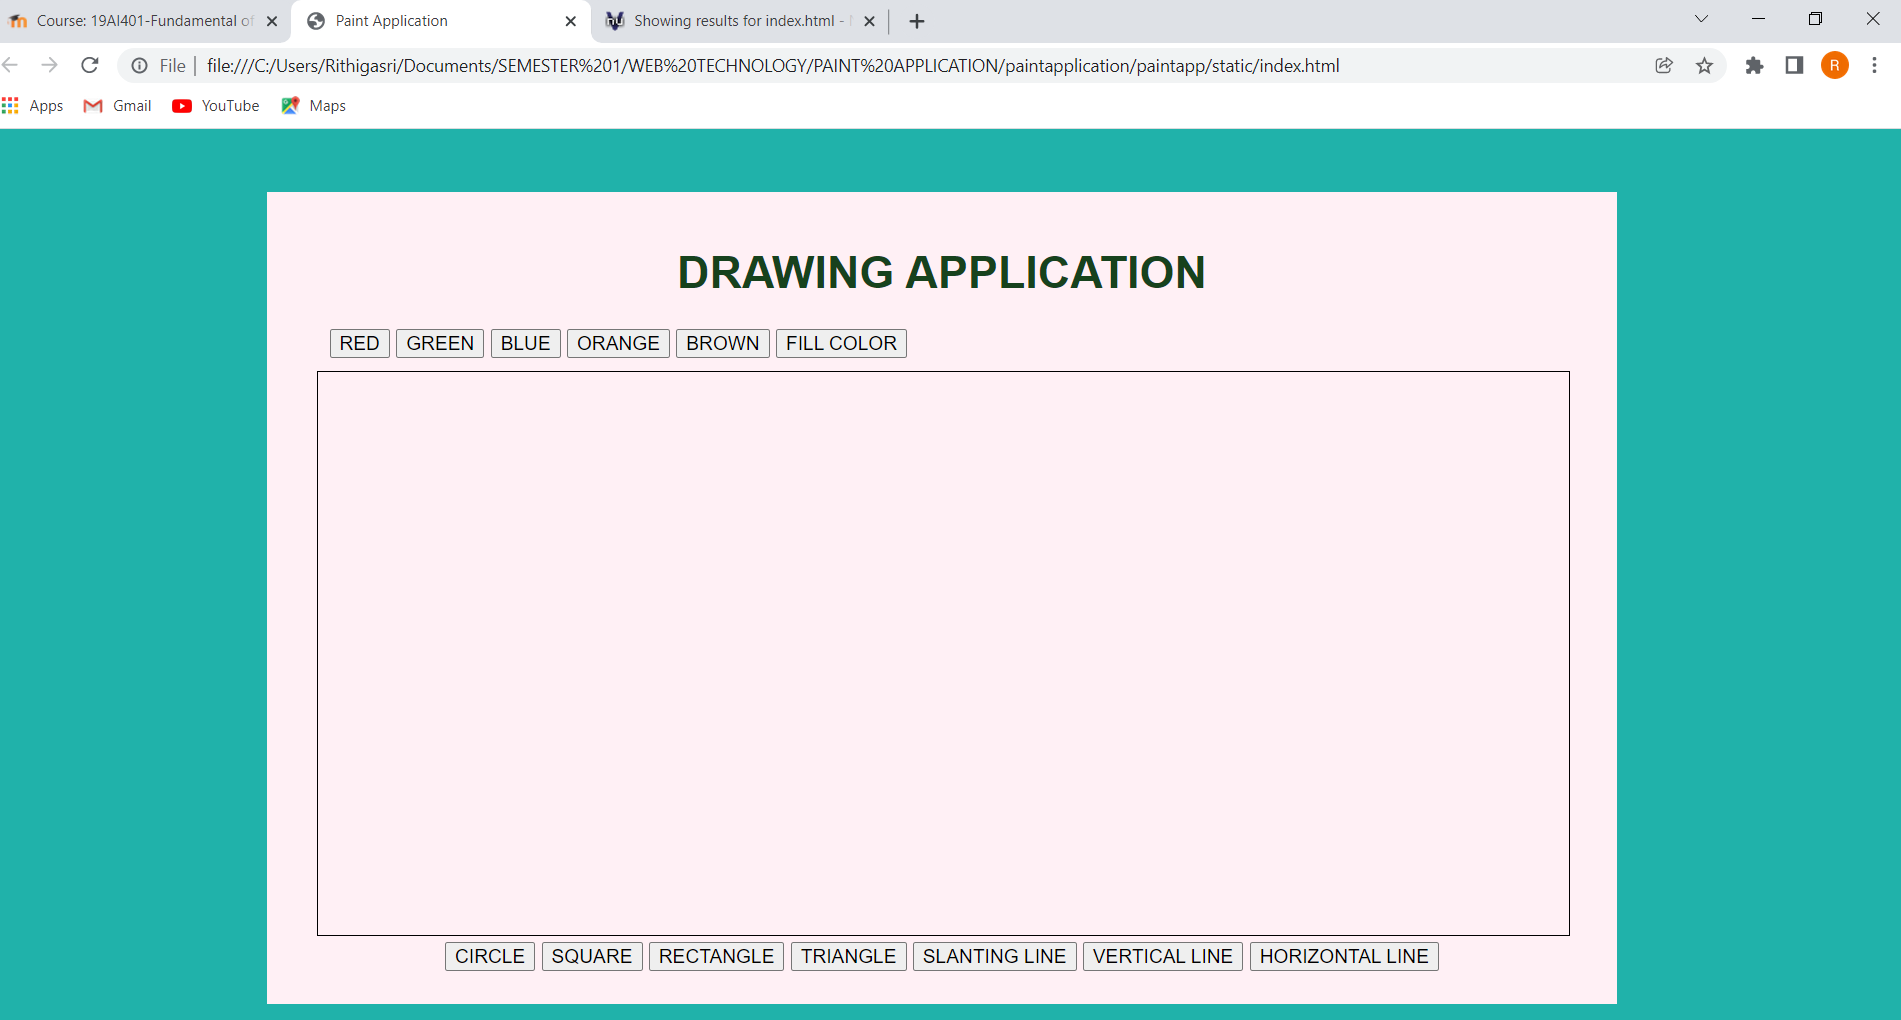
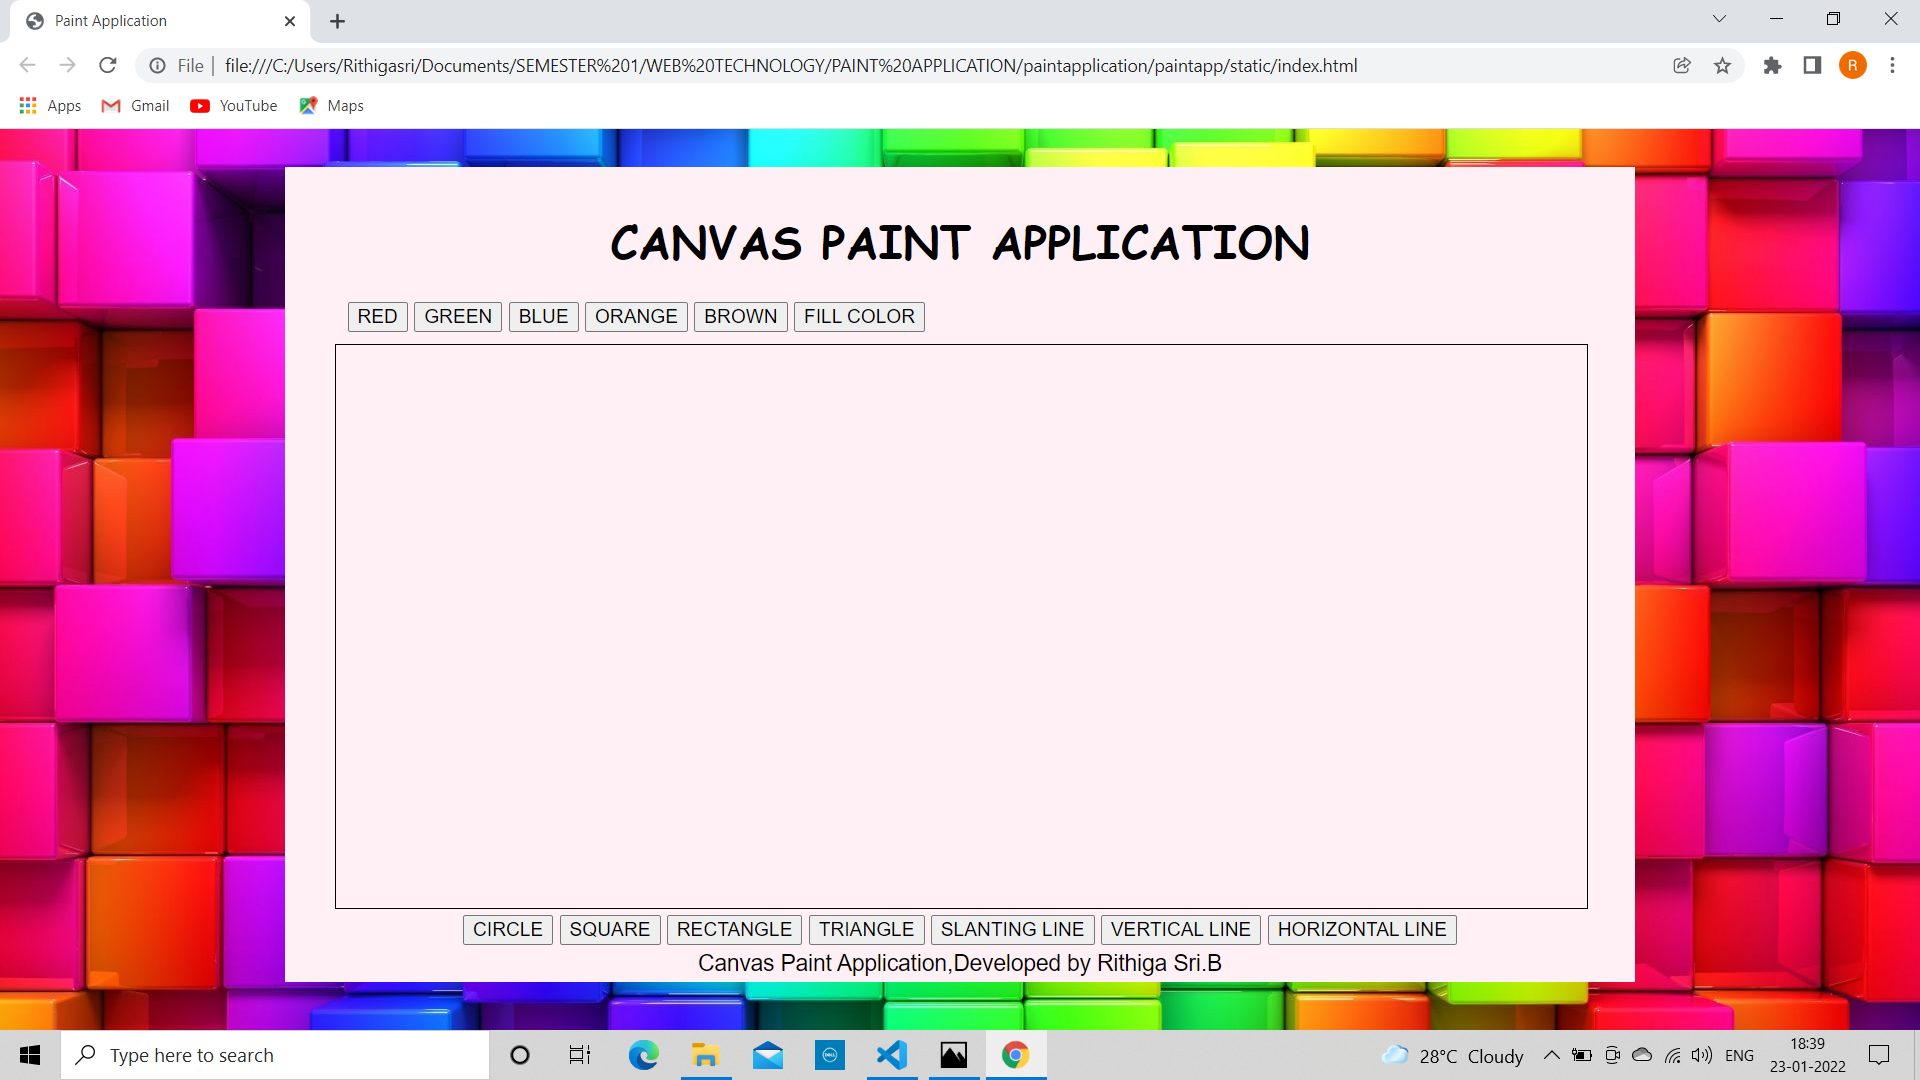
Completed

diff --git a/paintapp/static/index.html b/paintapp/static/index.html
@@ -11,24 +11,28 @@
         font-family: Arial, Helvetica, sans-serif;
       }
       body {
-        background-color:lightseagreen;
-        color: #17421d;
+        background-image: url("https://colors.dopely.top/inside-colors/wp-content/uploads/2021/06/colorful-backgrounds-11.jpg");
+        background-size:cover;
+        
       }
       .container {
         width: 1080px;
         margin-left: auto;
         margin-right: auto;
+        
       }
       .content {
         display: block;
         width: 100%;
         background-color:lavenderblush;
         min-height: 650px;
-        margin: 50px 50px 0px 0px;
-        padding-top: 20px;
+        margin: 30px 50px 0px 0px;
+        padding-top: 10px;
       }
       h1 {
+      
         text-align: center;
+        font-family: cursive;
       }
       canvas {
         margin-left: 40px;
@@ -43,6 +47,17 @@
         margin-left:50px;
         margin-bottom:10px;
       }
+      .footer{
+        display:block;
+        width:100%;
+        height: 30px;
+        color:black;
+        text-align: center;
+        padding-top: 5px;
+        margin: 0px 0px 0px 0px;
+
+    
+}
     </style>
     <script>
       var shape;
@@ -167,10 +182,10 @@
   <body>
     <div class="container">
       <div class="content">
-        <h1>DRAWING APPLICATION</h1>
+        <h1>CANVAS PAINT APPLICATION</h1>
         <div>
           <div class="toolbar1">
-            <input type="button" id="red" value="RED"/>
+            <input type="button" id="red" value="RED">
             <input type="button" id="green" value="GREEN"/>
             <input type="button" id="blue" value="BLUE"/>
             <input type="button" id="orange" value="ORANGE"/>
@@ -198,6 +213,7 @@
         <input type="button" id="hline" value="HORIZONTAL LINE"/>
         
       </div>
+      <div class="footer">Canvas Paint Application,Developed by Rithiga Sri.B</div>
       </div>
     </div>
     <script>

diff --git a/README.md b/README.md
@@ -50,24 +50,28 @@ Publish the website in the given URL.
         font-family: Arial, Helvetica, sans-serif;
       }
       body {
-        background-color:lightseagreen;
-        color: #17421d;
+        background-image: url("https://colors.dopely.top/inside-colors/wp-content/uploads/2021/06/colorful-backgrounds-11.jpg");
+        background-size:cover;
+        
       }
       .container {
         width: 1080px;
         margin-left: auto;
         margin-right: auto;
+        
       }
       .content {
         display: block;
         width: 100%;
         background-color:lavenderblush;
         min-height: 650px;
-        margin: 50px 50px 0px 0px;
-        padding-top: 20px;
+        margin: 30px 50px 0px 0px;
+        padding-top: 10px;
       }
       h1 {
+      
         text-align: center;
+        font-family: cursive;
       }
       canvas {
         margin-left: 40px;
@@ -82,6 +86,17 @@ Publish the website in the given URL.
         margin-left:50px;
         margin-bottom:10px;
       }
+      .footer{
+        display:block;
+        width:100%;
+        height: 30px;
+        color:black;
+        text-align: center;
+        padding-top: 5px;
+        margin: 0px 0px 0px 0px;
+
+    
+}
     </style>
     <script>
       var shape;
@@ -206,10 +221,10 @@ Publish the website in the given URL.
   <body>
     <div class="container">
       <div class="content">
-        <h1>DRAWING APPLICATION</h1>
+        <h1>CANVAS PAINT APPLICATION</h1>
         <div>
           <div class="toolbar1">
-            <input type="button" id="red" value="RED"/>
+            <input type="button" id="red" value="RED">
             <input type="button" id="green" value="GREEN"/>
             <input type="button" id="blue" value="BLUE"/>
             <input type="button" id="orange" value="ORANGE"/>
@@ -237,6 +252,7 @@ Publish the website in the given URL.
         <input type="button" id="hline" value="HORIZONTAL LINE"/>
         
       </div>
+      <div class="footer">Canvas Paint Application,Developed by Rithiga Sri.B</div>
       </div>
     </div>
     <script>
@@ -286,10 +302,14 @@ Publish the website in the given URL.
   </body>
 </html>
 
+
 ```
 
 ## OUTPUT:
 ![OUTPUT](output.png)
+
+## SAMPLE OUTPUT:
+![SAMPLE](sample.png)
 
 ## VALIDATION REPORT:
 ![VALIDATION](validator.png)
